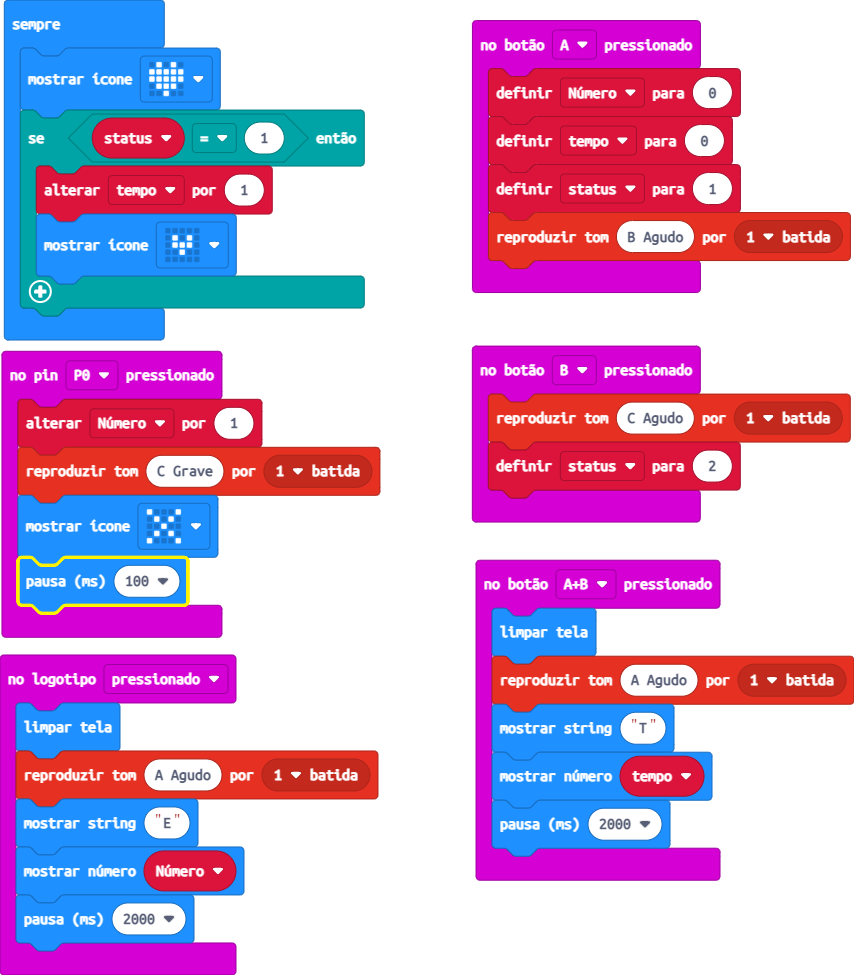
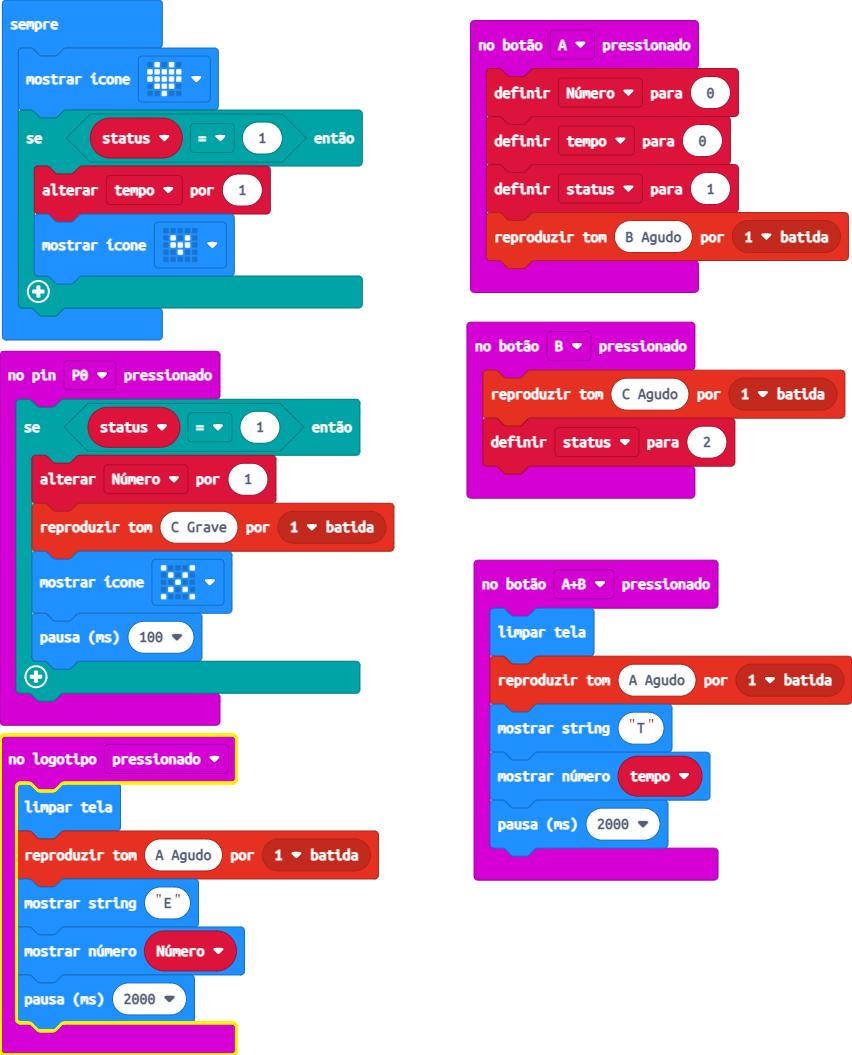
Atualizar 'main.blocks, main.ts'

diff --git a/main.ts b/main.ts
@@ -1,11 +1,13 @@
+let status = 0
 let Número = 0
 let tempo = 0
-let status = 0
 input.onPinPressed(TouchPin.P0, function () {
-    Número += 1
-    music.playTone(131, music.beat(BeatFraction.Whole))
-    basic.showIcon(IconNames.No)
-    basic.pause(100)
+    if (status == 1) {
+        Número += 1
+        music.playTone(131, music.beat(BeatFraction.Whole))
+        basic.showIcon(IconNames.No)
+        basic.pause(100)
+    }
 })
 input.onLogoEvent(TouchButtonEvent.Pressed, function () {
     basic.clearScreen()
